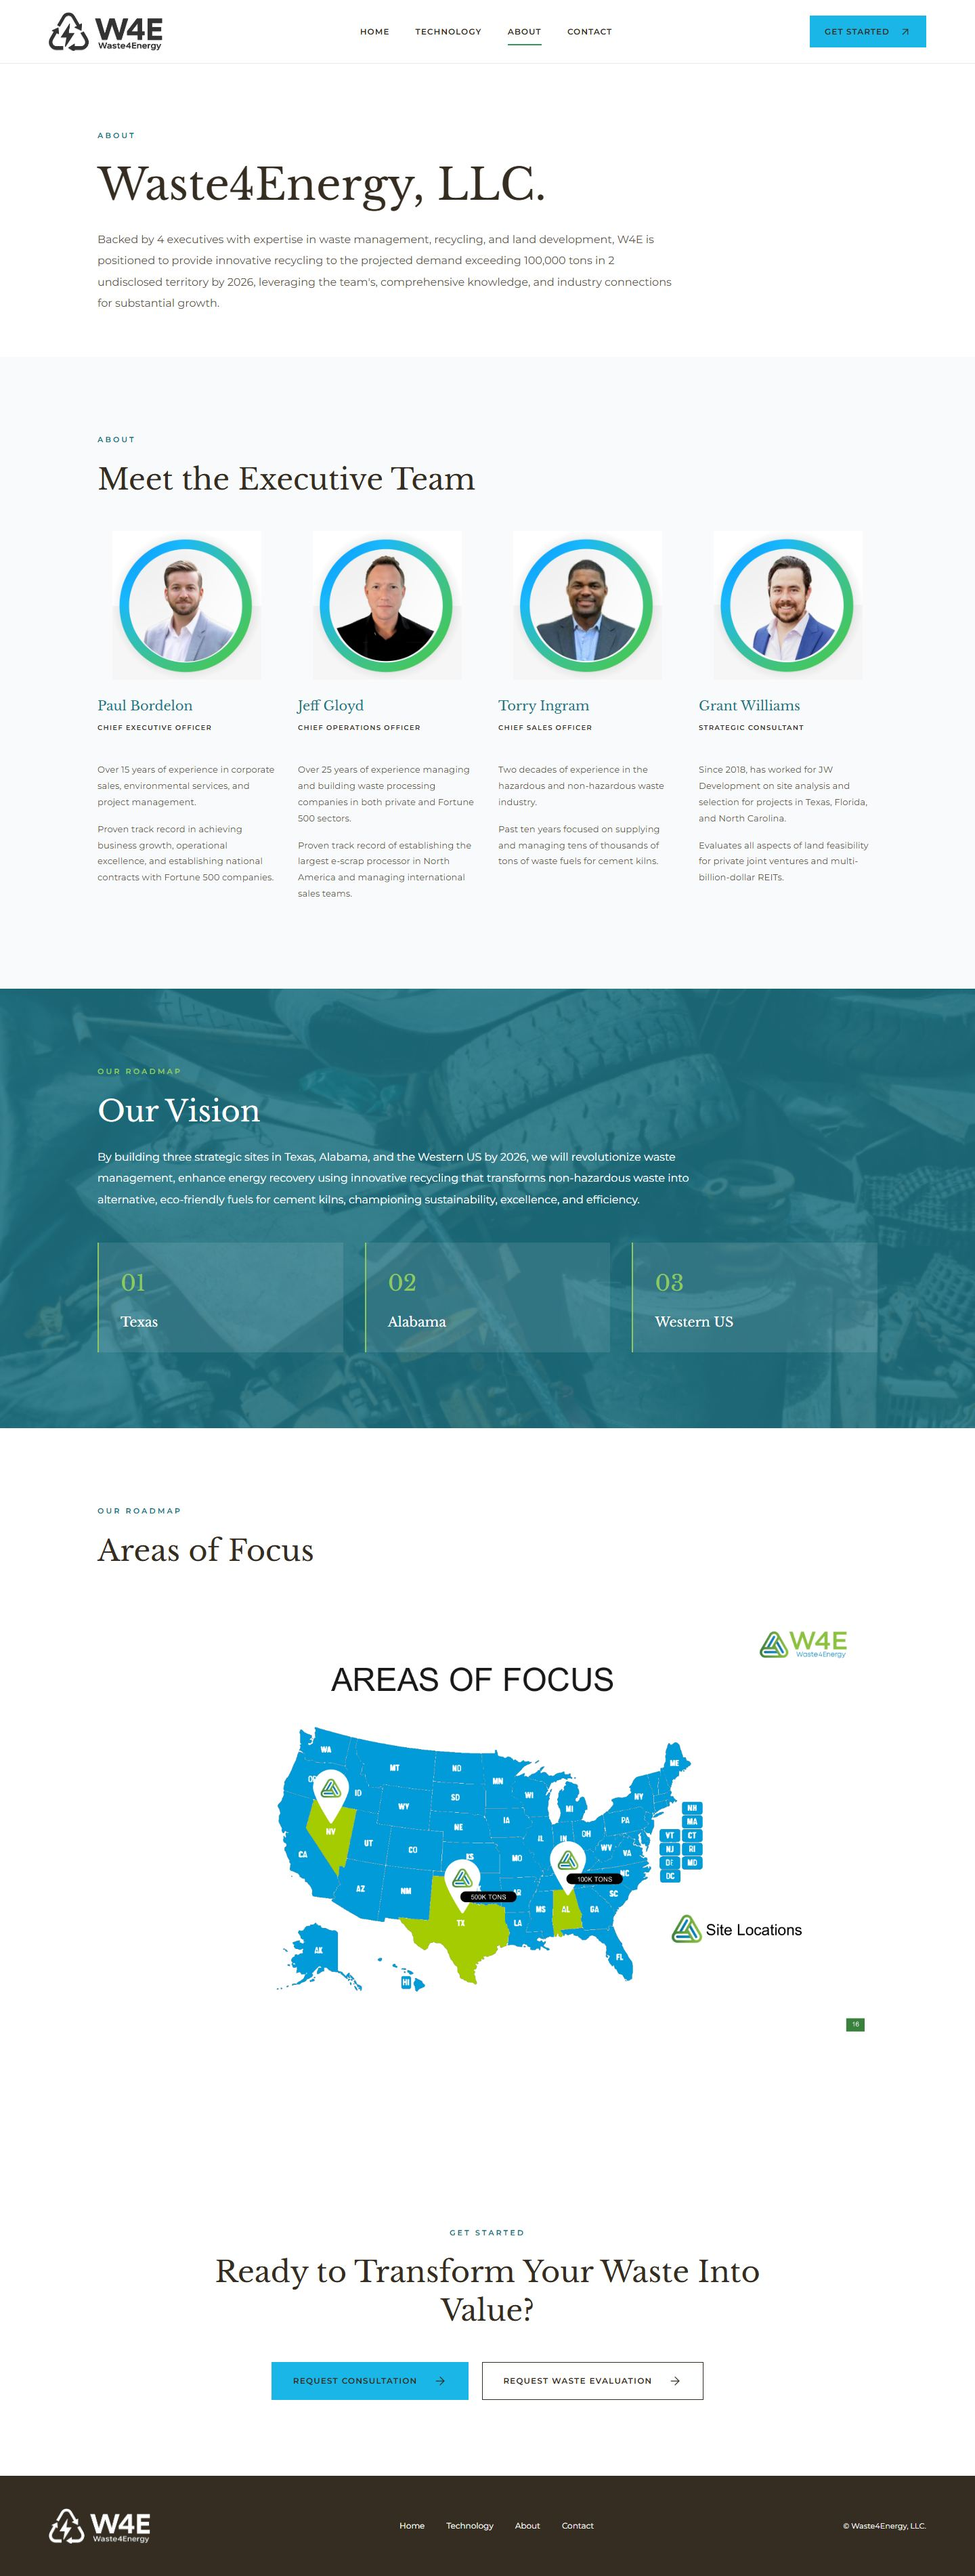
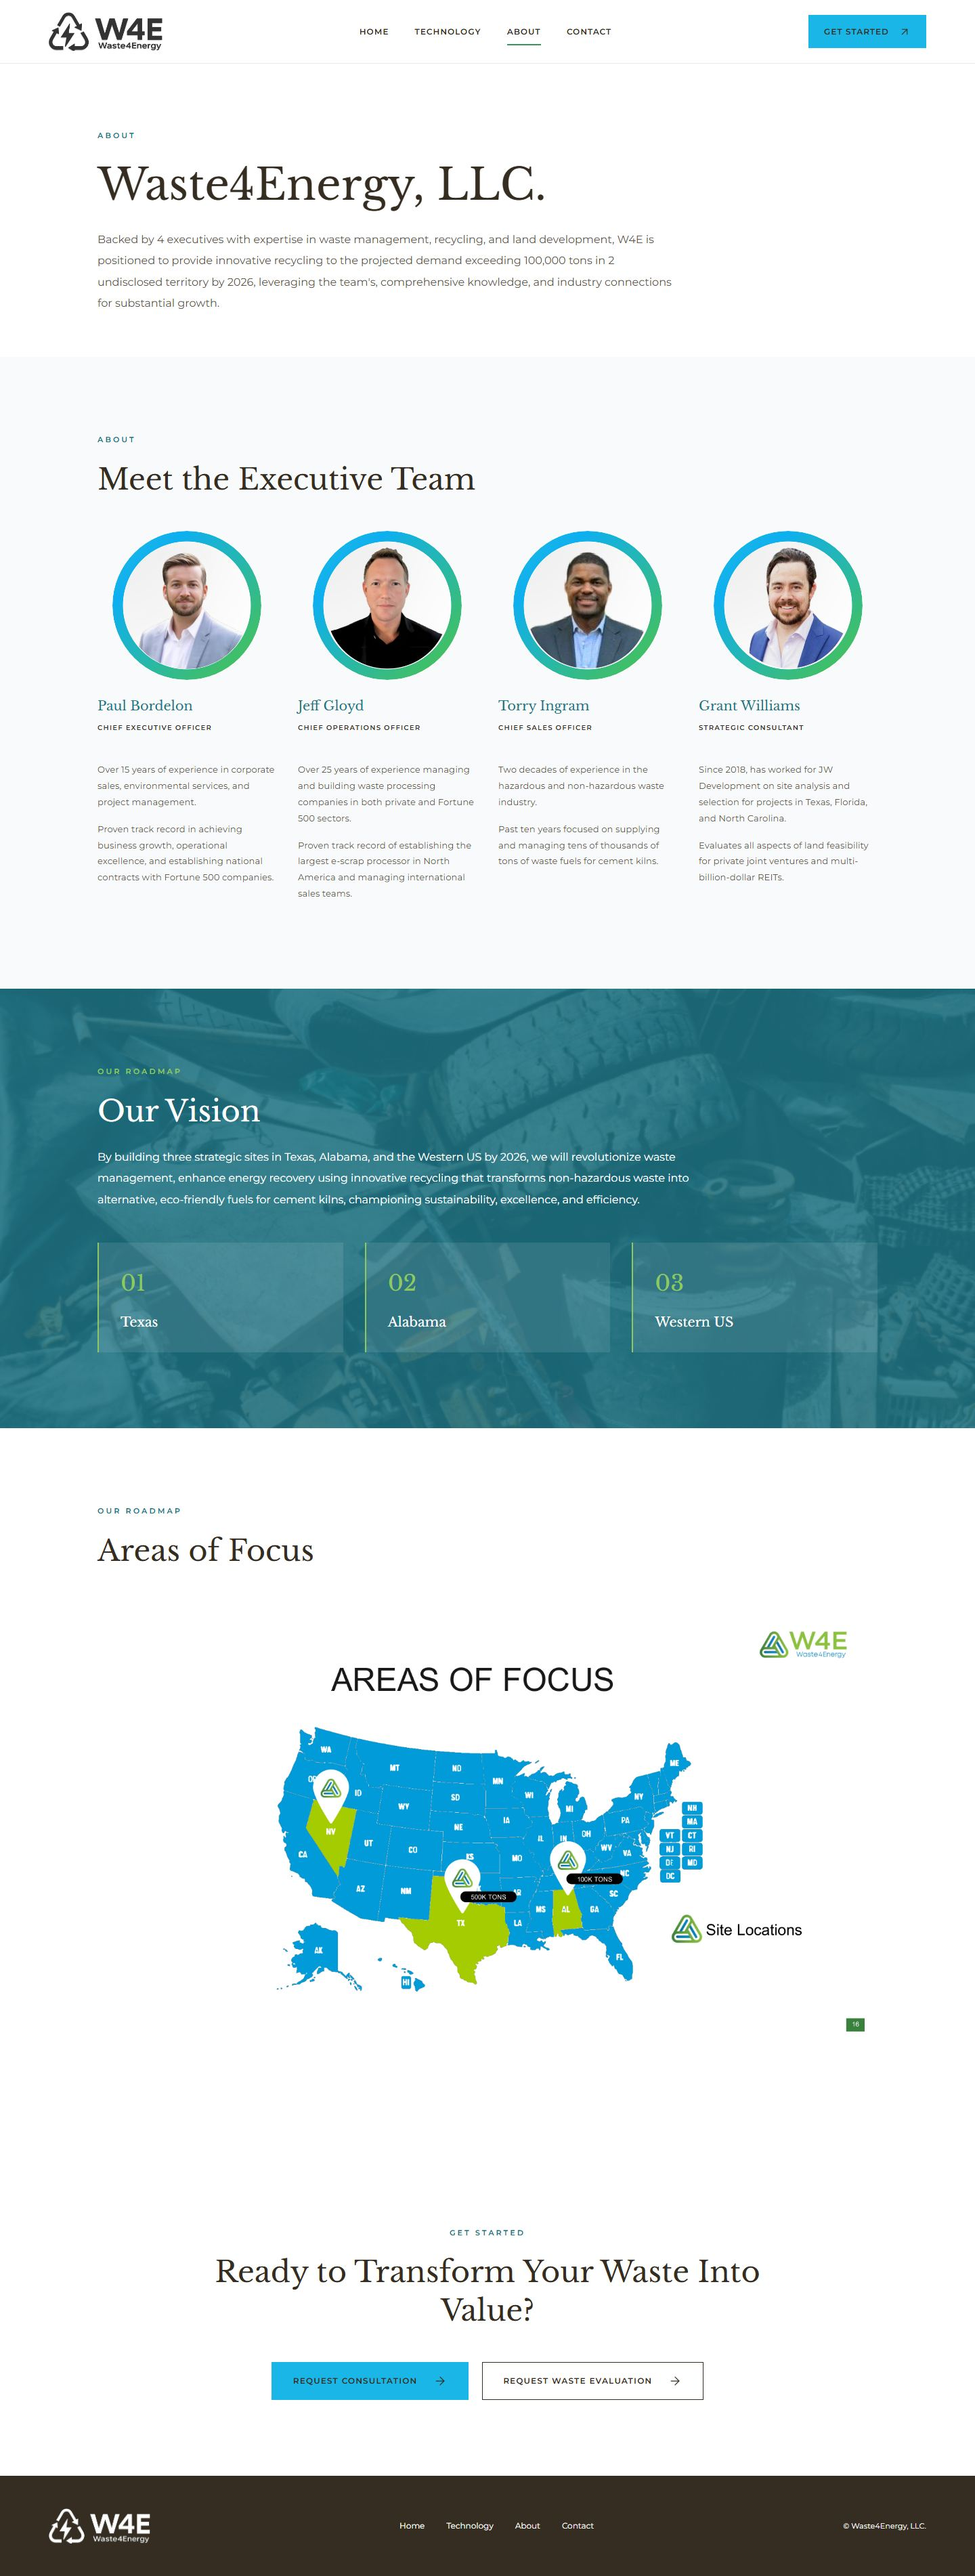
Mask executive portraits and add zoom with looping eased gradient rings

diff --git a/Waste4Energy_Review/styles.css b/Waste4Energy_Review/styles.css
@@ -9,3 +9,18 @@
 @media(prefers-reduced-motion:reduce){html{scroll-behavior:auto}*,*:before,*:after{animation:none!important;transition:none!important}.motion .reveal:not(.visible){opacity:1;transform:none}}
 
 .nav-cta{border:1px solid transparent;transition:background-color .2s cubic-bezier(.16,1,.3,1),border-color .2s cubic-bezier(.16,1,.3,1),color .2s cubic-bezier(.16,1,.3,1)}.nav-cta:hover,.nav-cta:focus-visible{background:#fff;border-color:#000;color:#000}
+
+/* Keep the headshot and rotating gradient stroke inside separate circular masks. */
+.portrait{position:relative;display:block;width:min(100%,220px);height:auto;aspect-ratio:1;margin:0 auto 1.6rem;border-radius:50%;overflow:hidden;isolation:isolate;background:transparent}
+.portrait-ring{position:absolute;inset:0;border-radius:50%;background:linear-gradient(135deg,var(--cyan) 10%,#0eaff0 25%,#41bf66 85%);mask:radial-gradient(farthest-side,transparent 85.5%,#000 86.2%);pointer-events:none}
+.portrait-photo{position:absolute;inset:7.2%;border-radius:50%;overflow:hidden;background:var(--white)}
+.portrait-zoom{position:absolute;inset:0;display:block;transform:scale(1);transition:transform .65s cubic-bezier(.16,1,.3,1)}
+.portrait .portrait-photo img{position:absolute;left:50%;top:50%;width:134%;height:134%;max-width:none;object-fit:cover;transform:translate(-49.1%,-50.3%)}
+.portrait:is(:hover,:focus-visible) .portrait-zoom{transform:scale(1.07)}
+.portrait:is(:hover,:focus-visible) .portrait-ring{animation:portrait-spin 2.4s infinite}
+.portrait:focus-visible{outline:3px solid var(--teal);outline-offset:6px}
+@keyframes portrait-spin{0%{transform:rotate(0deg);animation-timing-function:cubic-bezier(.33,0,.16,1)}75%,100%{transform:rotate(360deg)}}
+@media(min-width:761px) and (max-width:1100px){.portrait{width:min(100%,260px)}}
+@media(max-width:760px){.portrait{width:min(100%,190px)}}
+@media(max-width:390px){.portrait{width:min(100%,260px)}}
+@media(prefers-reduced-motion:reduce){.portrait:is(:hover,:focus-visible) .portrait-zoom{transform:none}}
